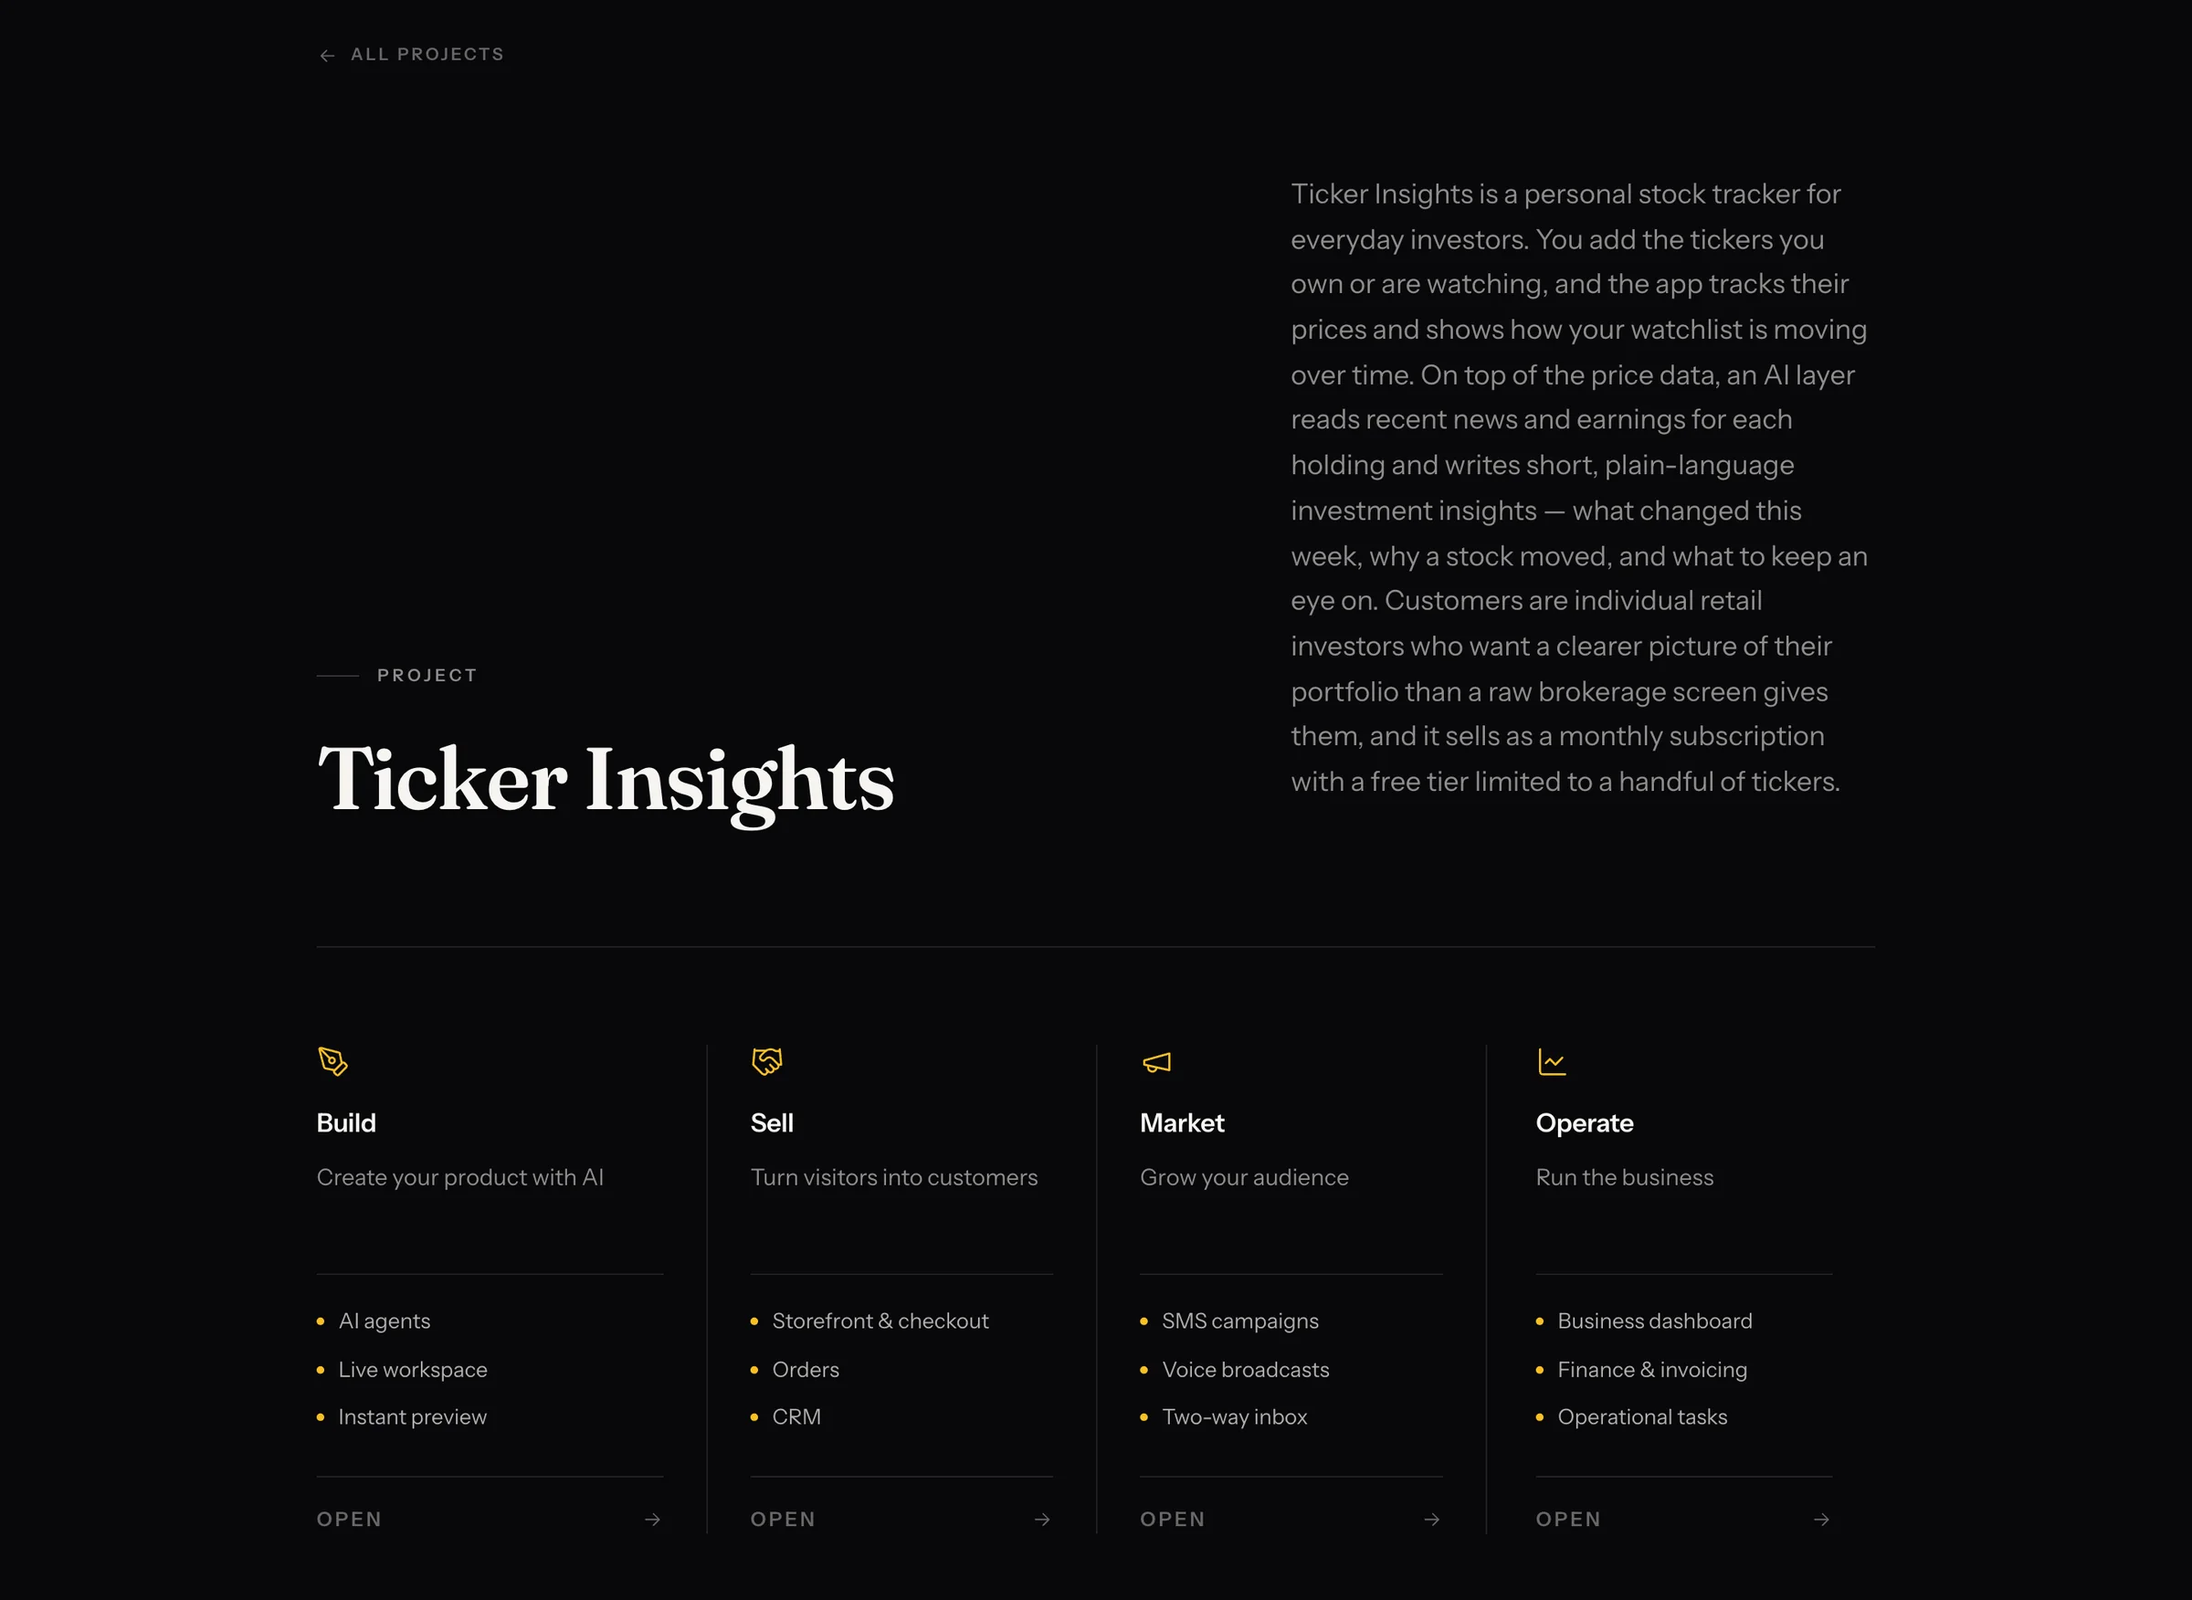
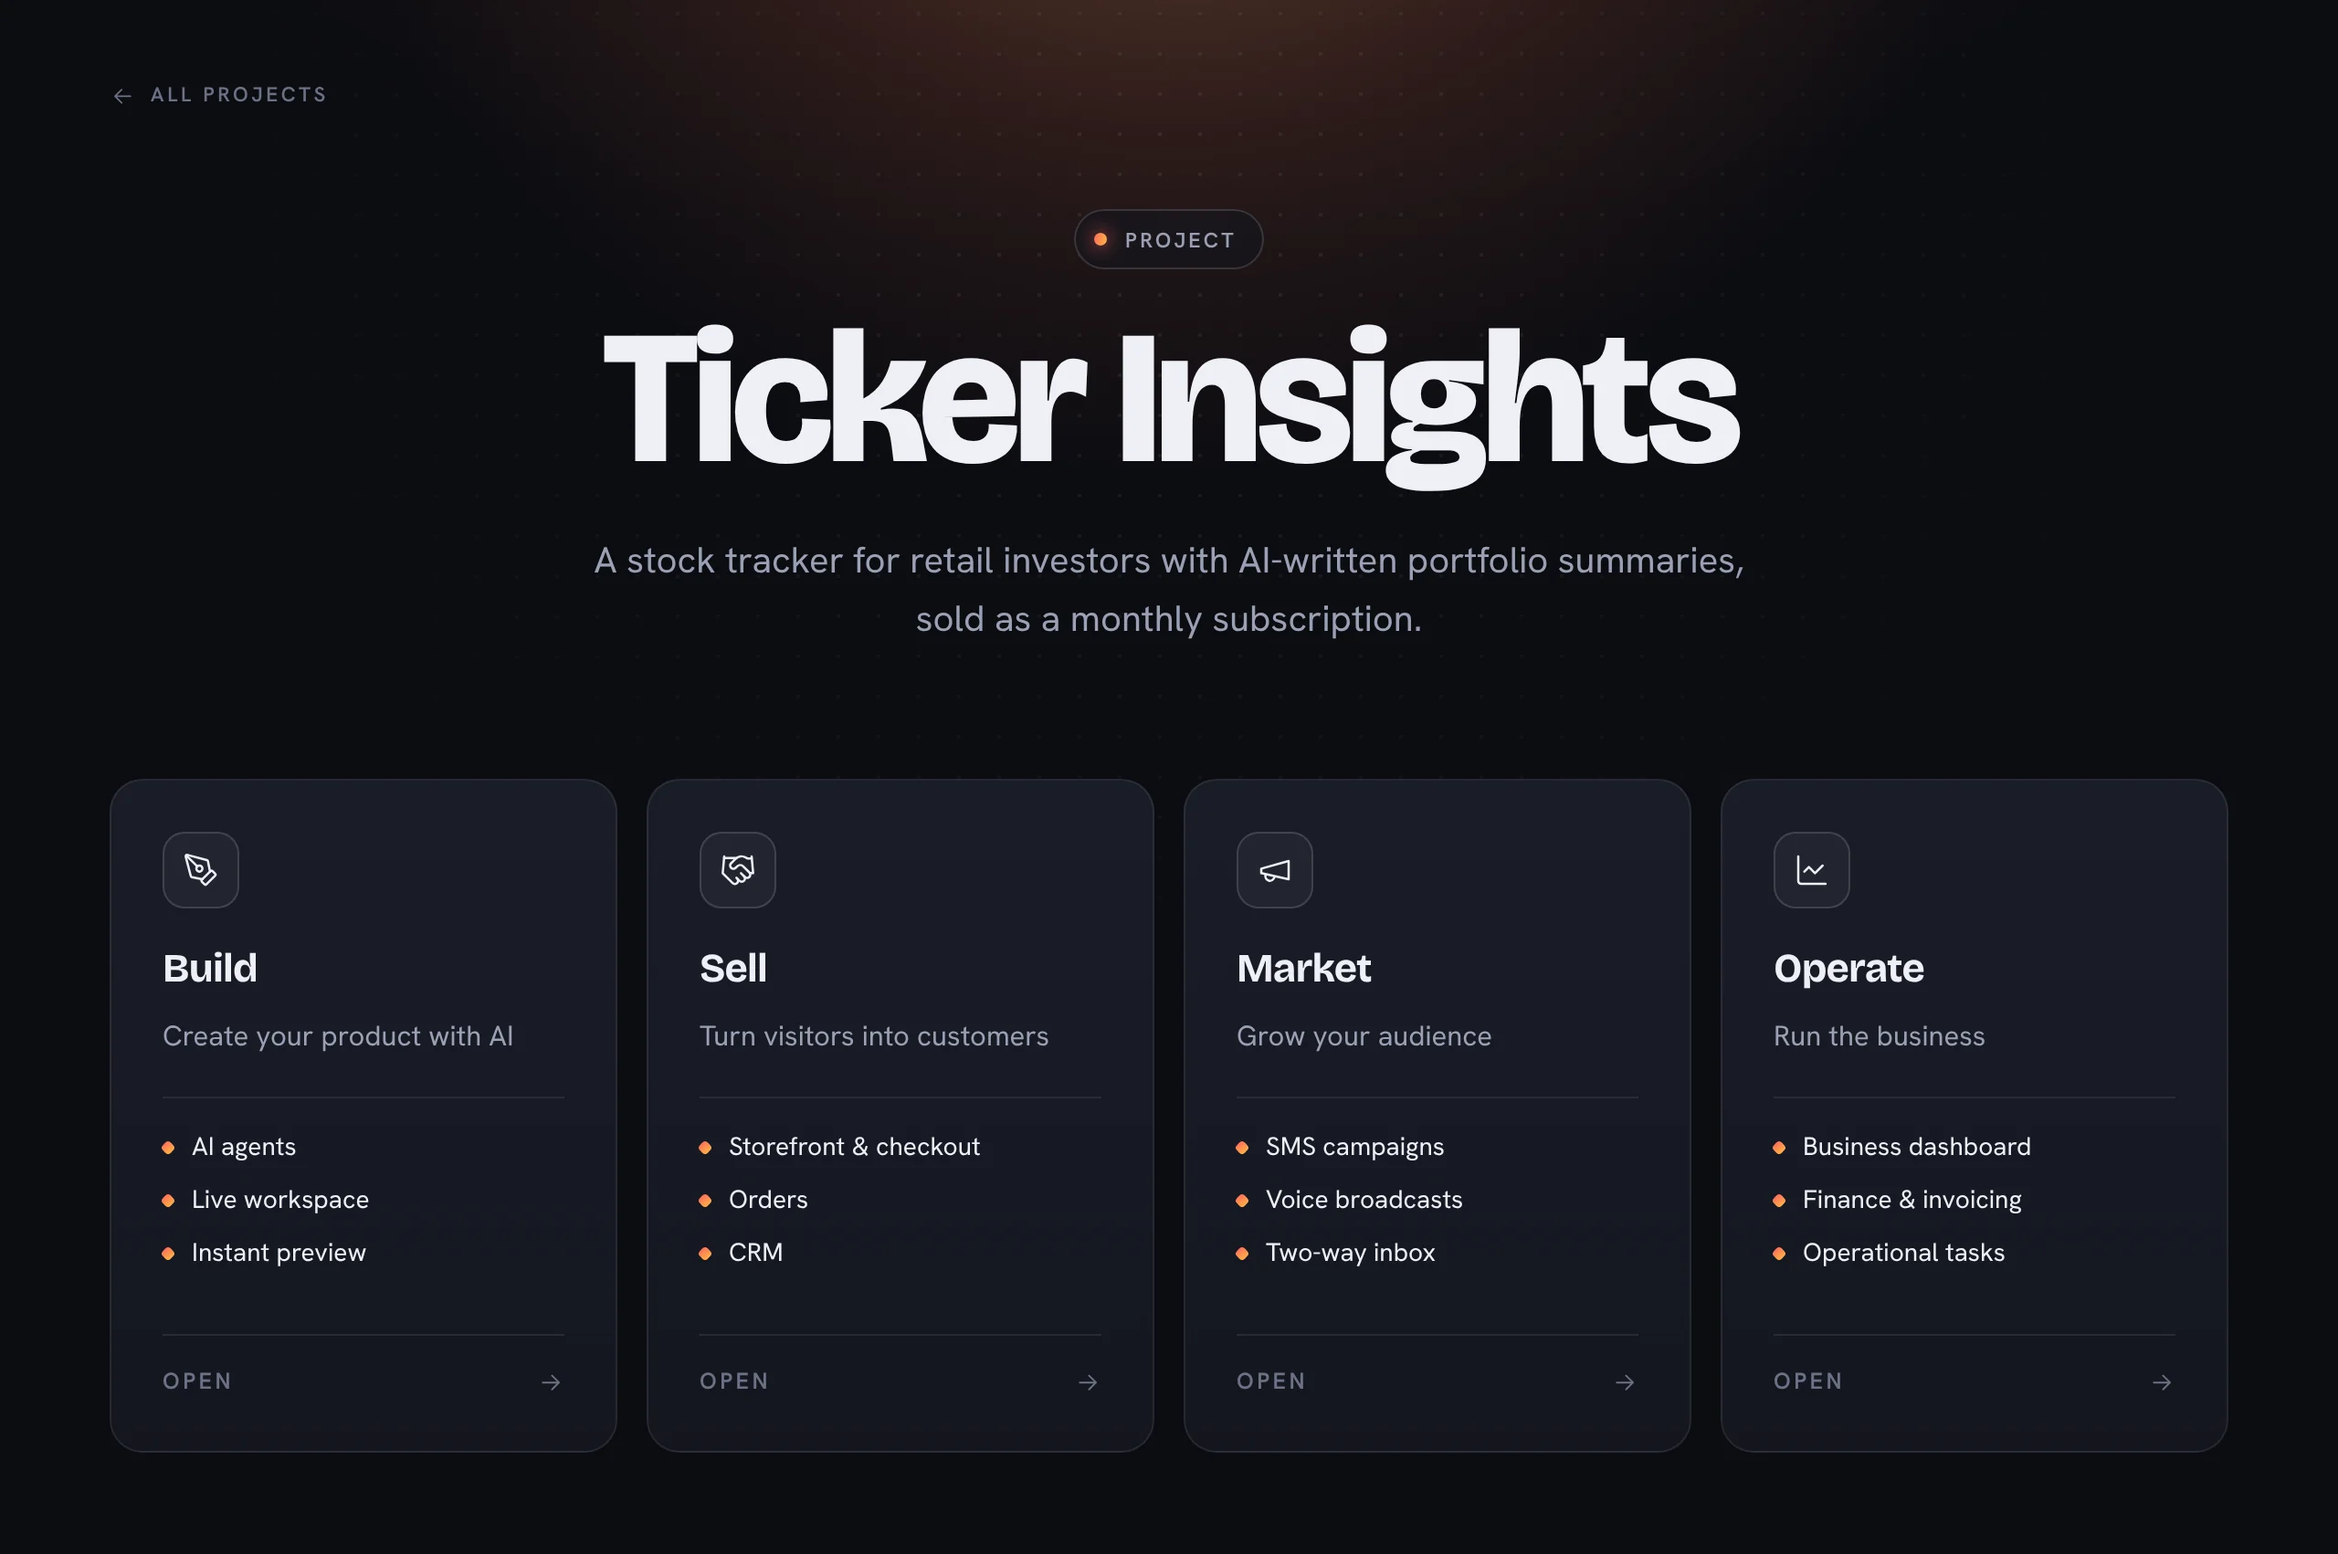
Retake the home page product shots in the Spotlight design
The four screenshots in /public/product still showed the pre-Spotlight
app: the editorial project hub, the Fraunces tool headers with emerald
and violet icon tiles. Retaken from the running app, same screens and
framing as before, dark theme at 2x:

- project hub: back link through the four module cards (2560x1702)
- Sell and Marketing: header, connect banner and tab bar (2288x694,
  2288x680)
- build workspace: chat beside the live Ticker Insights preview
  (2400x1500, unchanged size)

StatsSection and KeyFeaturesSection carry the new intrinsic sizes.

Claude-Session: https://claude.ai/code/session_01X7PEaMbgQDiq3TuQeSCwHT

diff --git a/frontend/vuejs/src/apps/home/components/organisms/sections/KeyFeaturesSection.vue b/frontend/vuejs/src/apps/home/components/organisms/sections/KeyFeaturesSection.vue
@@ -38,8 +38,8 @@
           <ProductShot
             src="/product/run-sell.webp"
             alt="The Sell workspace for Ticker Insights, with tabs for payments, products, orders, customers and settings, and a prompt to connect a Stripe account."
-            :width="1800"
-            :height="414"
+            :width="2288"
+            :height="694"
             label="imagi — sell"
             caption="Payments run through your own Stripe account — Imagi never sits between you and the money."
           />
@@ -48,8 +48,8 @@
           <ProductShot
             src="/product/run-marketing.webp"
             alt="The Marketing workspace for Ticker Insights, with tabs for campaigns, audience, ads, inbox and settings, and a prompt to connect a Twilio account."
-            :width="1800"
-            :height="420"
+            :width="2288"
+            :height="680"
             label="imagi — marketing"
             caption="Text and voice campaigns go out over Twilio, with Google and Meta ad accounts alongside them."
           />
@@ -121,7 +121,7 @@ export default defineComponent({
   font-weight: 700;
 }
 
-/* Stacked, not side by side: these crops are 1800px of dense UI, and at half
+/* Stacked, not side by side: these crops are 2288px of dense UI, and at half
    the measure their tab labels stop being readable — which defeats the point
    of showing them at all. */
 .shot-pair {

diff --git a/frontend/vuejs/src/apps/home/components/organisms/sections/StatsSection.vue b/frontend/vuejs/src/apps/home/components/organisms/sections/StatsSection.vue
@@ -49,8 +49,8 @@
         <ProductShot
           src="/product/project-hub.webp"
           alt="The project hub for Ticker Insights, showing its four workspaces: Build, Sell, Market and Operate."
-          :width="2400"
-          :height="1752"
+          :width="2560"
+          :height="1702"
           label="imagi — project hub"
           caption="The hub for Ticker Insights. Build makes the product; Sell, Market and Operate run the business around it."
         />
